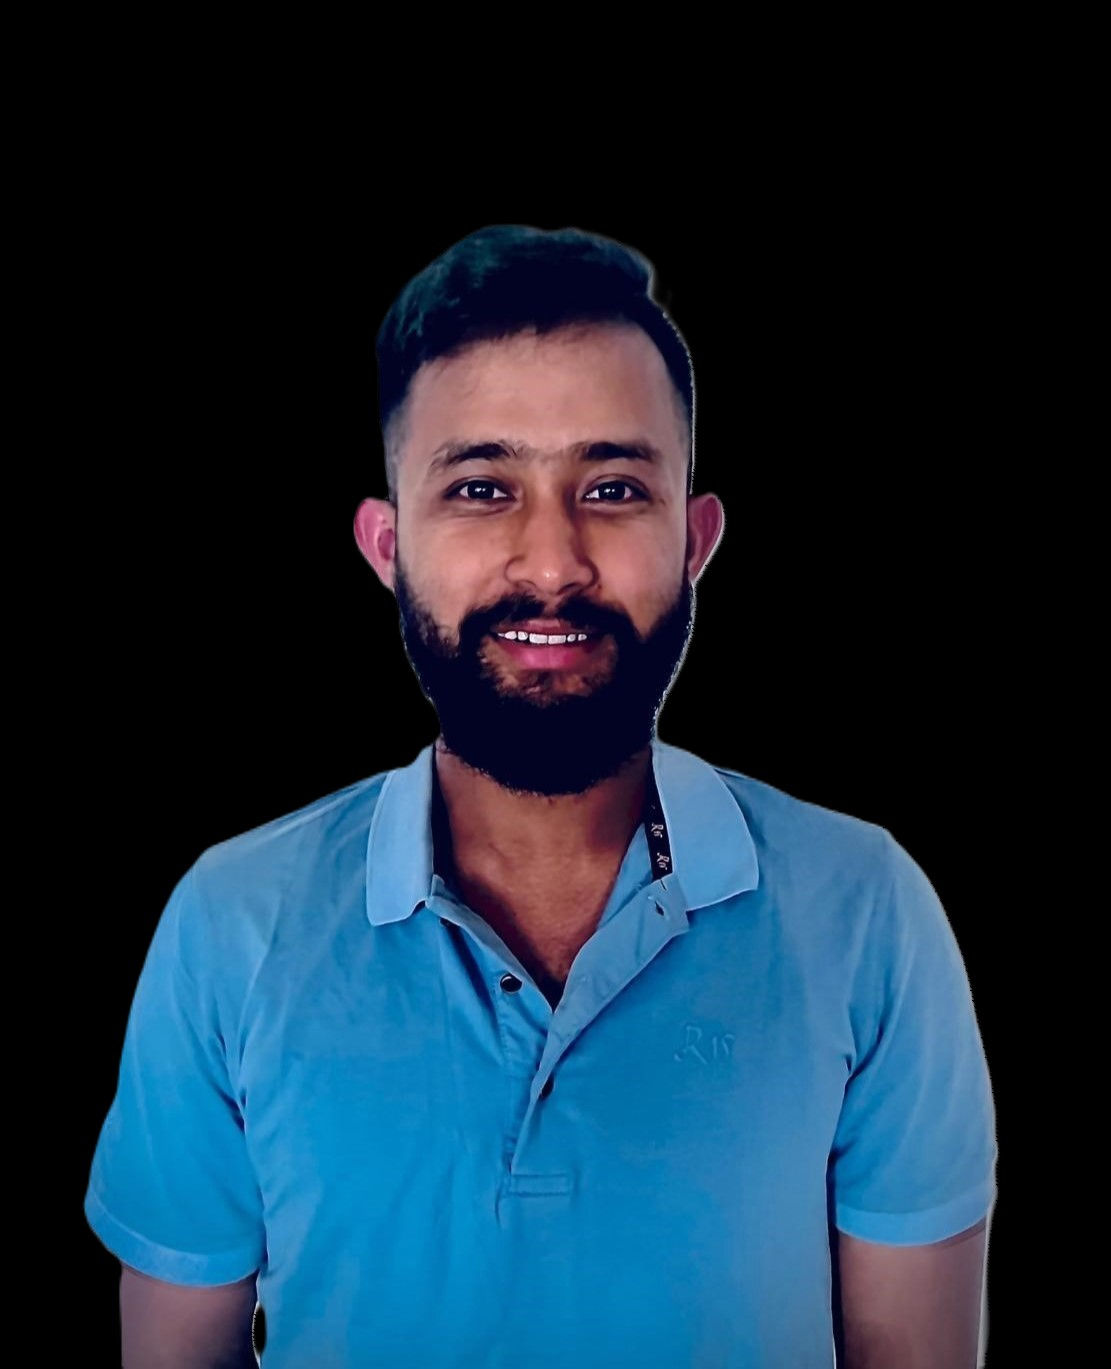
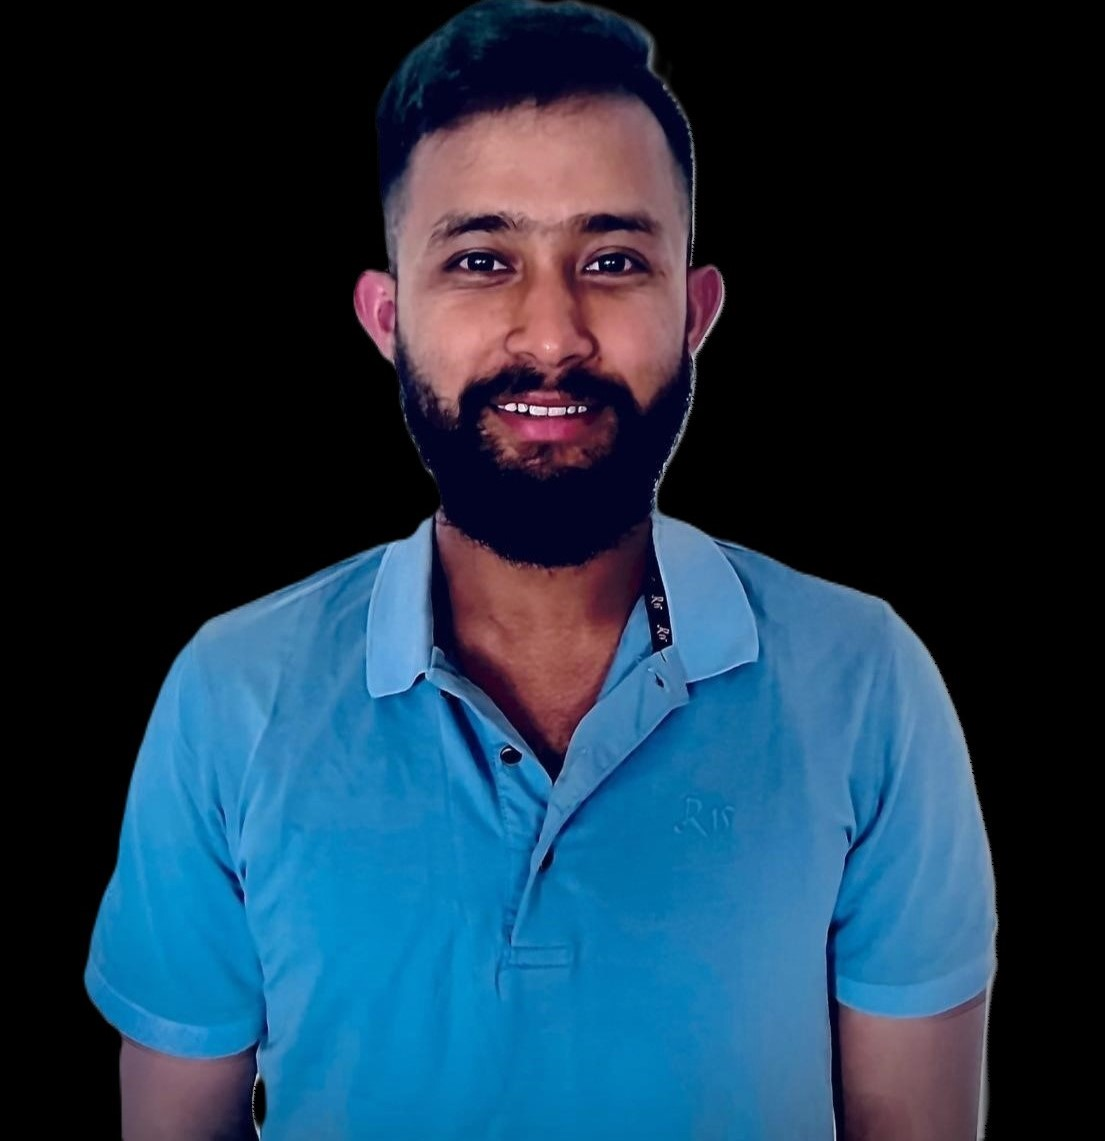
updated app.jsx

Changed region(s): [[0.0615, 0.0, 0.9231, 1.0]]

diff --git a/frontend/src/constants/index.js b/frontend/src/constants/index.js
@@ -1,7 +1,4 @@
-import project1 from "../assets/projects/project-1.jpg";
-import project2 from "../assets/projects/project-2.jpg";
-import project3 from "../assets/projects/project-3.jpg";
-import project4 from "../assets/projects/project-4.jpg";
+
 
 export const HERO_CONTENT = `As a full stack developer, I bring a holistic approach to software development, combining expertise in both front-end and back-end technologies to create dynamic and seamless web applications. With a strong foundation in programming languages like JavaScript, HTML, CSS, and proficiency in frameworks such as React and Express.js, I excel in crafting engaging user interfaces and robust server-side functionalities. My experience extends to database management systems PostgreSQL, enabling me to architect efficient data structures and optimize application performance. From conceptualization to deployment, I thrive in collaborative environments, leveraging my problem-solving skills and adaptability to deliver scalable, high-quality solutions that meet both user needs and business objectives.`;
 
@@ -38,39 +35,39 @@ export const EXPERIENCES = [
   },
 ];
 
-export const PROJECTS = [
-  {
-    title: "E-Commerce Website",
-    image: project1,
-    description:
-      "A fully functional e-commerce website with features like product listing, shopping cart, and user authentication.",
-    technologies: ["React.js", "Tailwind", "Express.js", "Postgress"],
-  },
-  {
-    title: "Split Cost App",
-    image: project2,
-    description:
-      "An application for managing bills and splitting bills between different users",
-    technologies: ["HTML", "CSS", "Javascript"],
-  },
-  {
-    title: "Portfolio Website",
-    image: project3,
-    description:
-      "A personal portfolio website showcasing projects, skills, and contact information.",
-    technologies: ["React", "Tailwind", "Express", "Postgress"],
-  },
-  {
-    title: "To do App",
-    image: project4,
-    description:
-      "A platform to write and delete notes",
-    technologies: ["HTML", "CSS", "Javascript"],
-  },
-];
+// export const PROJECTS = [
+//   {
+//     title: "E-Commerce Website",
+//     image: project1,
+//     description:
+//       "A fully functional e-commerce website with features like product listing, shopping cart, and user authentication.",
+//     technologies: ["React.js", "Tailwind", "Express.js", "Postgress"],
+//   },
+//   {
+//     title: "Split Cost App",
+//     image: project2,
+//     description:
+//       "An application for managing bills and splitting bills between different users",
+//     technologies: ["HTML", "CSS", "Javascript"],
+//   },
+//   {
+//     title: "Portfolio Website",
+//     image: project3,
+//     description:
+//       "A personal portfolio website showcasing projects, skills, and contact information.",
+//     technologies: ["React", "Tailwind", "Express", "Postgress"],
+//   },
+//   {
+//     title: "To do App",
+//     image: project4,
+//     description:
+//       "A platform to write and delete notes",
+//     technologies: ["HTML", "CSS", "Javascript"],
+//   },
+// ];
 
-export const CONTACT = {
-  address: "3/31 ninth Avenue, Campsie, NSW, 2194 ",
-  phoneNo: "0450609562",
-  email: "baralutsav89@gmail.com",
-};
+// export const CONTACT = {
+//   address: "3/31 ninth Avenue, Campsie, NSW, 2194 ",
+//   phoneNo: "0450609562",
+//   email: "baralutsav89@gmail.com",
+// };

diff --git a/frontend/src/components/Hero.jsx b/frontend/src/components/Hero.jsx
@@ -1,26 +1,24 @@
 import { HERO_CONTENT } from "../constants/index.js";
-import ProfilePic from "../assets/utsavProfile.jpeg"
+import ProfilePic from "../assets/images/utsavProfile.jpg"
 
 function Hero() {
     return (
-        <div className="border-b border-neutral-900 pb-4 w-full lg:mb-35">
-            <div className="flex w-full max-w-screen-2xl flex-wrap mx-10">
-                <div className="w-full lg:w-1/2">
-                    <div className="flex flex-col items-center lg:items-start">
-                        <h1 className="pb-16 text-6xl font-thin tracking-tight lg:mt-16 lg:text-8xl">Utsav Baral</h1>
-                        <span className="bg-gradient-to-r from-sky-400 via-rose-500 to-purple-500 bg-clip-text text-4xl tracking-tight text-transparent">Full Stack Developer</span>
-                        <p className="m-2 leading-10 max-w-l py-6 font-light tracking-tighter">{HERO_CONTENT}</p>
+        <>
+            <div className="flex flex-col-reverse md:flex-row justify-between gap-20">
+                <div className="flex flex-col gap-10 basis-2/3">
+                    <div className="md:items-start flex flex-col justify-center items-center gap-5">
+                        <h1 className="inline-block bg-gradient-to-r from-cyan-600 via-orange-800 to-indigo-400 bg-clip-text text-5xl text-transparent">Utsav Baral</h1>
+                        <h2 className="inline-block bg-gradient-to-r from-orange-800  via-cyan-600 to-indigo-400 bg-clip-text text-5xl text-transparent">Full-stack developer</h2>
+                    </div>
+                    <div className="basis-3/4">
+                        <p className="leading-8 font-sans text-lg">{HERO_CONTENT}</p>
                     </div>
                 </div>
-                <div className="w-full lg:w-1/2 lg:p-8">
-                    <div className="flex justify-center">
-                        <img className="w-[400px] rounded-3xl" src={ProfilePic} alt="Utsav Baral" />
-
-                    </div>
-                </div>
+                <figure className="self-center md:self-start">
+                    <img className="md:w-[600px] mix-blend-screen" src={ProfilePic} alt="profile" />
+                </figure>
             </div>
-
-        </div>
+        </>
     )
 }
 

diff --git a/frontend/src/App.jsx b/frontend/src/App.jsx
@@ -1,6 +1,7 @@
 
 import './App.css'
 import About from './components/About'
+import Experience from './components/Experience'
 import Hero from './components/Hero'
 import Navbar from './components/Navbar'
 
@@ -9,24 +10,33 @@ function App() {
     return (
         <>
 
-            <div className='overflow-x-hidden text-neutral-300 antialiased selection:bg-cyan-300 selection:text-cyan-900'>
-                <div className='fixed top-0 -z-10 h-full w-full'>
-                    <div className="absolute top-0 z-[-2] h-screen w-screen bg-neutral-950 bg-[radial-gradient(ellipse_80%_80%_at_50%_-20%,rgba(120,119,198,0.3),rgba(255,255,255,0))]">
+            <div className='overflow-x-hidden text-neutral-300 antialiased selection:bg-cyan-300 selection:text-cyan-900 h-screen bg-gradient-to-b from-slate-800 to-slate-900'>
 
+                <div className="flex justify-center">
+                    <div className="w-full max-w-[1200px] p-4">
+                        <Navbar />
                     </div>
                 </div>
-
-                <div className='container mx-auto px-8'>
-                    <Navbar />
-                </div>
                 <div className='flex justify-center'>
-                    <div className="w-full  max-w-[1200px]">
+                    <div className="w-full  max-w-[1200px] p-4">
                         <Hero />
                     </div>
 
                 </div>
 
-                <About />
+                <div className='flex justify-center'>
+                    <div className="w-full  max-w-[1200px] p-4">
+
+                        <About />
+                    </div>
+                </div>
+
+                <div className='flex justify-center'>
+                    <div className="w-full  max-w-[1200px] p-4">
+
+                        <Experience />
+                    </div>
+                </div>
             </div >
 
         </>

diff --git a/frontend/src/components/Navbar.jsx b/frontend/src/components/Navbar.jsx
@@ -1,8 +1,8 @@
-import logo from "../assets/logo.jpg";
+import logo from "../assets/images/logo.png";
 import { FaLinkedin } from "react-icons/fa";
 import { FaGithub } from "react-icons/fa";
 import { FaFacebook } from "react-icons/fa";
-import { FaInstagram } from "react-icons/fa";
+import { FaTwitter } from "react-icons/fa";
 
 function Navbar() {
 
@@ -10,13 +10,23 @@ function Navbar() {
 
         <nav className='mb-20 w-full flex items-center justify-between py-6'>
             <div className='flex flex-shrink-0 items-center'>
-                <img className="w-24 brightness-75" src={logo} alt="logo" />
+                <img className="w-32 mix-blend-screen" src={logo} alt="logo" />
             </div>
             <div className="m-8 flex items-center justify-center gap-4 text-2xl">
-                <FaLinkedin />
-                <FaGithub />
-                <FaFacebook />
-                <FaInstagram />
+                <a href="https://www.linkedin.com/in/utsav-baral/">
+                    <FaLinkedin />
+                </a>
+
+                <a href="https://github.com/utsavcoder77">
+                    <FaGithub />
+                </a>
+                <a href="https://www.facebook.com/profile.php?id=100008693744003">
+                    <FaFacebook />
+                </a>
+                <a href="https://x.com/Baral_U47">
+                    <FaTwitter />
+                </a>
+
             </div>
 
         </nav>

diff --git a/frontend/src/components/About.jsx b/frontend/src/components/About.jsx
@@ -1,9 +1,10 @@
-
+import { ABOUT_TEXT } from "../constants/index"
 
 function About() {
     return (
-        <div className="border-b border-neutral-900 pb-4  w-full max-w-screen-xl">
-            <h1>About</h1>
+        <div className="border-b border-neutral-900 pb-4  w-full max-w-screen-xl mt-32 flex flex-col gap-14">
+            < h1 className="inline-block bg-gradient-to-r from-cyan-600 via-orange-800 to-indigo-400 bg-clip-text text-5xl text-transparent">About my Skills on full-stack development</h1>
+            <p>{ABOUT_TEXT}</p>
         </div>
     )
 }

diff --git a/frontend/src/components/Experience.jsx b/frontend/src/components/Experience.jsx
@@ -1,0 +1,11 @@
+
+
+function Experience() {
+    return (
+        <div className="border-b border-neutral-900 pb-4  w-full max-w-screen-xl mt-32 flex flex-col gap-14">
+
+        </div>
+    )
+}
+
+export default Experience;
